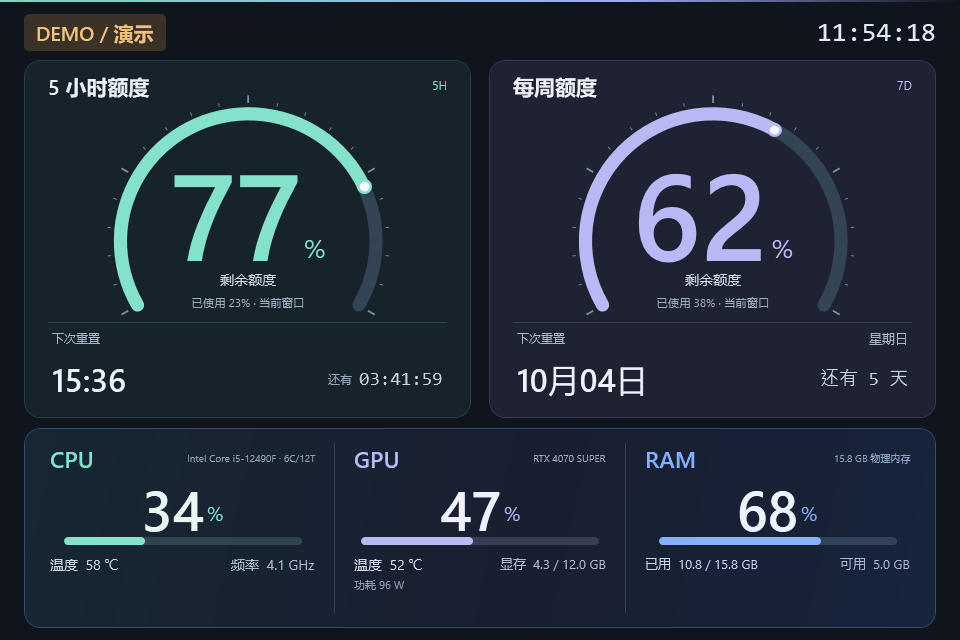
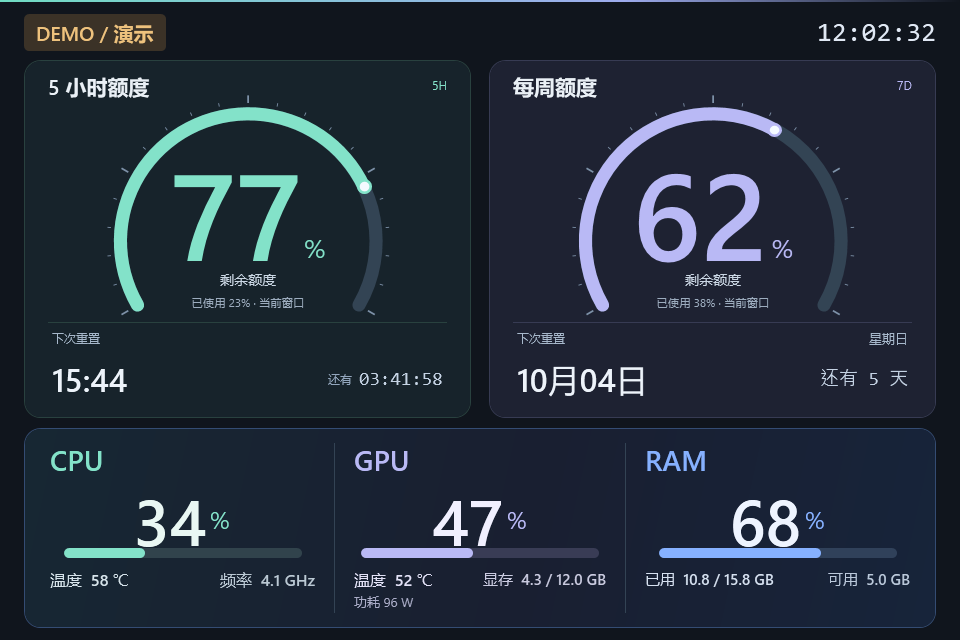
Enlarge and simplify hardware metrics

diff --git a/Dashboard.xaml b/Dashboard.xaml
@@ -109,66 +109,63 @@
             <Grid.ColumnDefinitions><ColumnDefinition/><ColumnDefinition Width="1"/><ColumnDefinition/><ColumnDefinition Width="1"/><ColumnDefinition/></Grid.ColumnDefinitions>
 
             <Grid Margin="7,0,19,0">
-              <Grid.RowDefinitions><RowDefinition Height="29"/><RowDefinition Height="64"/><RowDefinition Height="10"/><RowDefinition Height="*"/></Grid.RowDefinitions>
+              <Grid.RowDefinitions><RowDefinition Height="34"/><RowDefinition Height="70"/><RowDefinition Height="12"/><RowDefinition Height="*"/></Grid.RowDefinitions>
               <Grid>
-                <TextBlock Text="CPU" FontSize="23" FontWeight="SemiBold" Foreground="#83E2C9"/>
-                <TextBlock x:Name="CpuName" Text="处理器" FontSize="10" Foreground="#91A8B8" HorizontalAlignment="Right" VerticalAlignment="Center" MaxWidth="205" TextTrimming="CharacterEllipsis"/>
+                <TextBlock Text="CPU" FontSize="28" FontWeight="SemiBold" Foreground="#83E2C9" VerticalAlignment="Center"/>
               </Grid>
               <StackPanel Grid.Row="1" Orientation="Horizontal" HorizontalAlignment="Center" VerticalAlignment="Center">
-                <TextBlock x:Name="CpuUsage" Text="--" FontSize="55" FontWeight="SemiBold" Foreground="#E9F7F3" FontFamily="Segoe UI"/>
-                <TextBlock Text="%" FontSize="20" Foreground="#83E2C9" VerticalAlignment="Bottom" Margin="3,0,0,10"/>
+                <TextBlock x:Name="CpuUsage" Text="--" FontSize="64" FontWeight="SemiBold" Foreground="#E9F7F3" FontFamily="Segoe UI"/>
+                <TextBlock Text="%" FontSize="24" Foreground="#83E2C9" VerticalAlignment="Bottom" Margin="4,0,0,12"/>
               </StackPanel>
-              <Border Grid.Row="2" Width="238" Height="8" CornerRadius="4" Background="#31434C" HorizontalAlignment="Center">
-                <Border x:Name="CpuFill" Width="0" CornerRadius="4" Background="#83E2C9" HorizontalAlignment="Left"/>
+              <Border Grid.Row="2" Width="238" Height="10" CornerRadius="5" Background="#31434C" HorizontalAlignment="Center">
+                <Border x:Name="CpuFill" Width="0" CornerRadius="5" Background="#83E2C9" HorizontalAlignment="Left"/>
               </Border>
-              <Grid Grid.Row="3" Margin="0,9,0,0"><Grid.ColumnDefinitions><ColumnDefinition/><ColumnDefinition/></Grid.ColumnDefinitions>
-                <TextBlock x:Name="CpuTemp" Text="温度  -- ℃" FontSize="14" Foreground="#C9D8E2" HorizontalAlignment="Left"/>
-                <TextBlock x:Name="CpuClock" Grid.Column="1" Text="频率  -- GHz" FontSize="14" Foreground="#AABBC9" HorizontalAlignment="Right"/>
+              <Grid Grid.Row="3" Margin="0,10,0,0"><Grid.ColumnDefinitions><ColumnDefinition/><ColumnDefinition/></Grid.ColumnDefinitions>
+                <TextBlock x:Name="CpuTemp" Text="温度  -- ℃" FontSize="16" FontWeight="Medium" Foreground="#D7E4EB" HorizontalAlignment="Left"/>
+                <TextBlock x:Name="CpuClock" Grid.Column="1" Text="频率  -- GHz" FontSize="16" FontWeight="Medium" Foreground="#BBC9D4" HorizontalAlignment="Right"/>
               </Grid>
             </Grid>
 
             <Border Grid.Column="1" Background="#334354"/>
 
             <Grid Grid.Column="2" Margin="19,0">
-              <Grid.RowDefinitions><RowDefinition Height="29"/><RowDefinition Height="64"/><RowDefinition Height="10"/><RowDefinition Height="*"/></Grid.RowDefinitions>
+              <Grid.RowDefinitions><RowDefinition Height="34"/><RowDefinition Height="70"/><RowDefinition Height="12"/><RowDefinition Height="*"/></Grid.RowDefinitions>
               <Grid>
-                <TextBlock Text="GPU" FontSize="23" FontWeight="SemiBold" Foreground="#B9B9F5"/>
-                <TextBlock x:Name="GpuName" Text="显卡" FontSize="10" Foreground="#A8A9CA" HorizontalAlignment="Right" VerticalAlignment="Center" MaxWidth="190" TextTrimming="CharacterEllipsis"/>
+                <TextBlock Text="GPU" FontSize="28" FontWeight="SemiBold" Foreground="#B9B9F5" VerticalAlignment="Center"/>
               </Grid>
               <StackPanel Grid.Row="1" Orientation="Horizontal" HorizontalAlignment="Center" VerticalAlignment="Center">
-                <TextBlock x:Name="GpuUsage" Text="--" FontSize="55" FontWeight="SemiBold" Foreground="#F1F0FF" FontFamily="Segoe UI"/>
-                <TextBlock Text="%" FontSize="20" Foreground="#B9B9F5" VerticalAlignment="Bottom" Margin="3,0,0,10"/>
+                <TextBlock x:Name="GpuUsage" Text="--" FontSize="64" FontWeight="SemiBold" Foreground="#F1F0FF" FontFamily="Segoe UI"/>
+                <TextBlock Text="%" FontSize="24" Foreground="#B9B9F5" VerticalAlignment="Bottom" Margin="4,0,0,12"/>
               </StackPanel>
-              <Border Grid.Row="2" Width="238" Height="8" CornerRadius="4" Background="#393C55" HorizontalAlignment="Center">
-                <Border x:Name="GpuFill" Width="0" CornerRadius="4" Background="#B9B9F5" HorizontalAlignment="Left"/>
+              <Border Grid.Row="2" Width="238" Height="10" CornerRadius="5" Background="#393C55" HorizontalAlignment="Center">
+                <Border x:Name="GpuFill" Width="0" CornerRadius="5" Background="#B9B9F5" HorizontalAlignment="Left"/>
               </Border>
-              <Grid Grid.Row="3" Margin="0,9,0,0"><Grid.ColumnDefinitions><ColumnDefinition/><ColumnDefinition/></Grid.ColumnDefinitions>
+              <Grid Grid.Row="3" Margin="0,10,0,0"><Grid.ColumnDefinitions><ColumnDefinition/><ColumnDefinition/></Grid.ColumnDefinitions>
                 <StackPanel>
-                  <TextBlock x:Name="GpuTemp" Text="温度  -- ℃" FontSize="14" Foreground="#D7D6EF"/>
-                  <TextBlock x:Name="GpuPower" Text="功耗  -- W" FontSize="11" Foreground="#9699B6" Margin="0,3,0,0"/>
+                  <TextBlock x:Name="GpuTemp" Text="温度  -- ℃" FontSize="16" FontWeight="Medium" Foreground="#E3E2F7"/>
+                  <TextBlock x:Name="GpuPower" Text="功耗  -- W" FontSize="13" Foreground="#ABADC8" Margin="0,3,0,0"/>
                 </StackPanel>
-                <TextBlock x:Name="GpuMemory" Grid.Column="1" Text="显存  --" FontSize="13" Foreground="#B6B8D2" HorizontalAlignment="Right" VerticalAlignment="Top"/>
+                <TextBlock x:Name="GpuMemory" Grid.Column="1" Text="显存  --" FontSize="15" FontWeight="Medium" Foreground="#CACBE0" HorizontalAlignment="Right" VerticalAlignment="Top"/>
               </Grid>
             </Grid>
 
             <Border Grid.Column="3" Background="#334354"/>
 
             <Grid Grid.Column="4" Margin="19,0,7,0">
-              <Grid.RowDefinitions><RowDefinition Height="29"/><RowDefinition Height="64"/><RowDefinition Height="10"/><RowDefinition Height="*"/></Grid.RowDefinitions>
+              <Grid.RowDefinitions><RowDefinition Height="34"/><RowDefinition Height="70"/><RowDefinition Height="12"/><RowDefinition Height="*"/></Grid.RowDefinitions>
               <Grid>
-                <TextBlock Text="RAM" FontSize="23" FontWeight="SemiBold" Foreground="#86B1FF"/>
-                <TextBlock x:Name="RamName" Text="物理内存" FontSize="10" Foreground="#8EA5C7" HorizontalAlignment="Right" VerticalAlignment="Center" MaxWidth="180" TextTrimming="CharacterEllipsis"/>
+                <TextBlock Text="RAM" FontSize="28" FontWeight="SemiBold" Foreground="#86B1FF" VerticalAlignment="Center"/>
               </Grid>
               <StackPanel Grid.Row="1" Orientation="Horizontal" HorizontalAlignment="Center" VerticalAlignment="Center">
-                <TextBlock x:Name="RamUsage" Text="--" FontSize="55" FontWeight="SemiBold" Foreground="#EEF4FF" FontFamily="Segoe UI"/>
-                <TextBlock Text="%" FontSize="20" Foreground="#86B1FF" VerticalAlignment="Bottom" Margin="3,0,0,10"/>
+                <TextBlock x:Name="RamUsage" Text="--" FontSize="64" FontWeight="SemiBold" Foreground="#EEF4FF" FontFamily="Segoe UI"/>
+                <TextBlock Text="%" FontSize="24" Foreground="#86B1FF" VerticalAlignment="Bottom" Margin="4,0,0,12"/>
               </StackPanel>
-              <Border Grid.Row="2" Width="238" Height="8" CornerRadius="4" Background="#30415A" HorizontalAlignment="Center">
-                <Border x:Name="RamFill" Width="0" CornerRadius="4" Background="#86B1FF" HorizontalAlignment="Left"/>
+              <Border Grid.Row="2" Width="238" Height="10" CornerRadius="5" Background="#30415A" HorizontalAlignment="Center">
+                <Border x:Name="RamFill" Width="0" CornerRadius="5" Background="#86B1FF" HorizontalAlignment="Left"/>
               </Border>
-              <Grid Grid.Row="3" Margin="0,9,0,0"><Grid.ColumnDefinitions><ColumnDefinition/><ColumnDefinition/></Grid.ColumnDefinitions>
-                <TextBlock x:Name="RamUsed" Text="已用  --" FontSize="13" Foreground="#C8D6EA" HorizontalAlignment="Left"/>
-                <TextBlock x:Name="RamAvailable" Grid.Column="1" Text="可用  --" FontSize="13" Foreground="#A8B9D0" HorizontalAlignment="Right"/>
+              <Grid Grid.Row="3" Margin="0,10,0,0"><Grid.ColumnDefinitions><ColumnDefinition/><ColumnDefinition/></Grid.ColumnDefinitions>
+                <TextBlock x:Name="RamUsed" Text="已用  --" FontSize="15" FontWeight="Medium" Foreground="#D6E1F0" HorizontalAlignment="Left"/>
+                <TextBlock x:Name="RamAvailable" Grid.Column="1" Text="可用  --" FontSize="15" FontWeight="Medium" Foreground="#BBC9DB" HorizontalAlignment="Right"/>
               </Grid>
             </Grid>
           </Grid>

diff --git a/VERIFICATION.md b/VERIFICATION.md
@@ -62,3 +62,4 @@ powershell.exe -NoProfile -STA -ExecutionPolicy Bypass -File .\Monitor.ps1 -Demo
 - GPU 使用率、温度、显存、功耗以及 CPU/内存使用率已用真实传感器验证。
 - 当前普通权限下 CPU 温度传感器不可用，界面显示 `-- ℃`，未使用 ACPI 环境温度代替。
 - 硬件版位于本地 `hardware-monitor` 分支，未推送 GitHub。
+- 第二轮布局精简已删除处理器、显卡与内存型号小字，并放大所有保留的硬件指标；演示和真实数据均在 960×640 下检查通过。

diff --git a/README.md b/README.md
@@ -13,6 +13,8 @@
 - RAM：实时使用率、已用容量、总容量和可用容量。
 - Codex：5 小时及每周剩余额度、重置时间和倒计时，逻辑与原版一致。
 
+硬件区采用大号数字与加粗信息，只保留运行时最有用的读数，不显示处理器、显卡和内存型号小字。
+
 硬件数据每秒在本机读取，不上传到任何服务。Codex 额度仍通过本机已登录的官方 App Server 接口获取。
 
 ## 传感器说明
